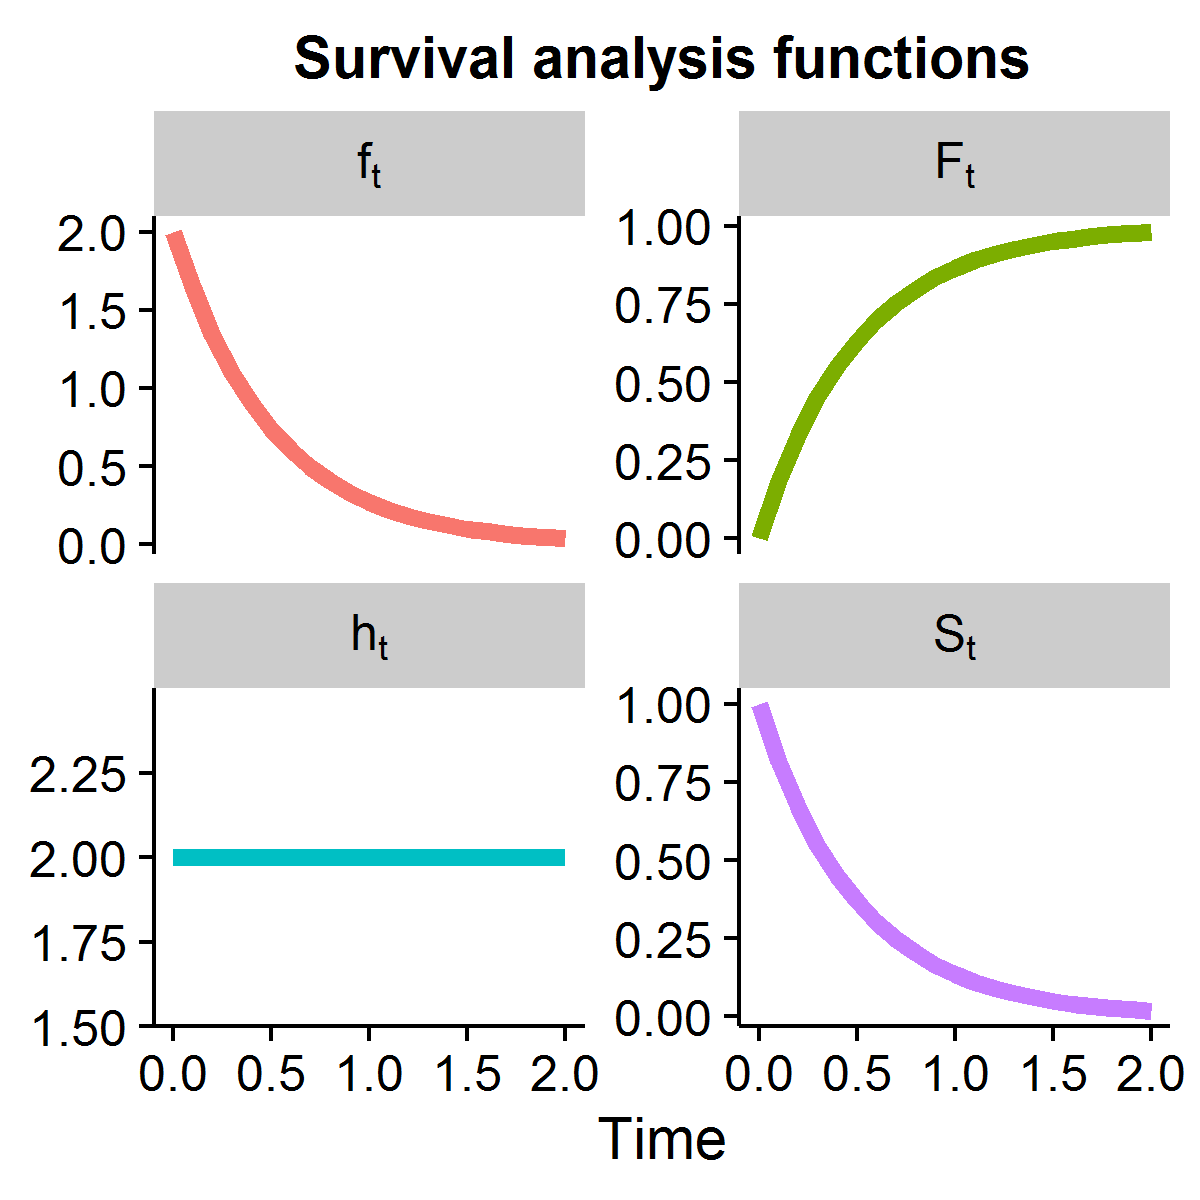
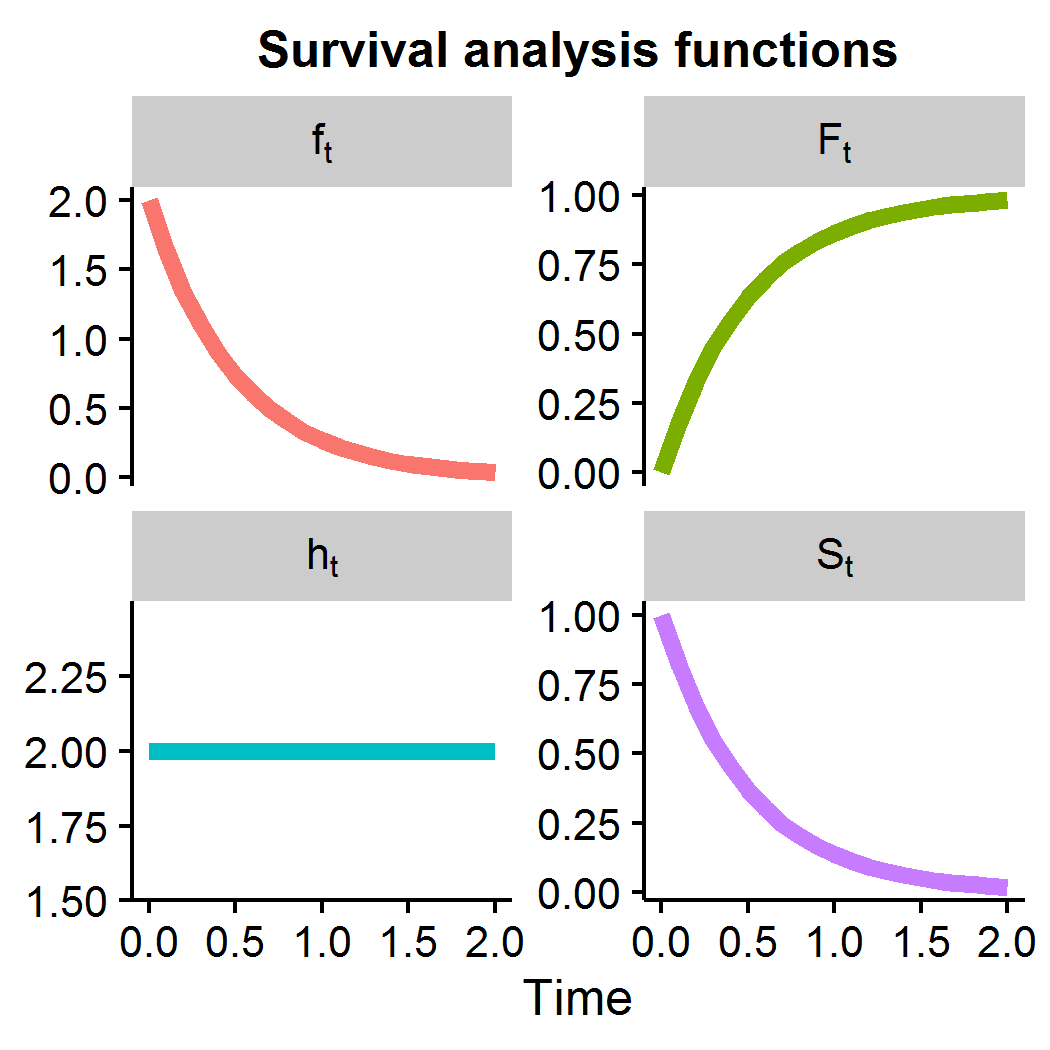
add new content

diff --git a/_rmd/2017-01-12-survival.html b/_rmd/2017-01-12-survival.html
@@ -120,13 +120,13 @@ $(document).ready(function () {
 </div>
 
 
-<p>In clinical settings understanding the dynamics of survival times is important to both medical practitioners as well as patients. In statistics, time-to-event (or duration) analysis models a continuous random variable <span class="math inline">\(T\)</span>, which represents the the length of a state. If the state is being alive, then the time to event is mortality, and we refer to it as <a href="https://en.wikipedia.org/wiki/Survival_analysis">survival anaylsis</a>. If <span class="math inline">\(t\)</span> is a given realization of <span class="math inline">\(T\)</span>, then we are conceptually interested in modelling <span class="math inline">\(P_\theta(T&gt;t\|X)\)</span>, indexed by some parametric distribution <span class="math inline">\(\theta\)</span> and conditional of some baseline covariates <span class="math inline">\(X\)</span>. If a patient has a “state” of some form of cancer, then survival analysis answers the question: what is the probability that life expectancy will exceed <span class="math inline">\(t\)</span> months given your baseline features <span class="math inline">\(X\)</span> (age, gender, genotype, etc) and underlying biological dynamics <span class="math inline">\(\theta\)</span>.<a href="#fn1" class="footnoteRef" id="fnref1"><sup>1</sup></a></p>
+<p>Understanding the dynamics of survival times in clinical settings is important to both medical practitioners and patients. In statistics, time-to-event (or duration) analysis models a continuous random variable <span class="math inline">\(T\)</span>, which represents the the length of a state. If the state is being alive, then the time to event is mortality, and we refer to it as <a href="https://en.wikipedia.org/wiki/Survival_analysis">survival anaylsis</a>. If <span class="math inline">\(t\)</span> is a given realization of <span class="math inline">\(T\)</span>, then we are conceptually interested in modelling <span class="math inline">\(P_\theta(T&gt;t\|X)\)</span>, indexed by some parametric distribution <span class="math inline">\(\theta\)</span> and conditional of some baseline covariates <span class="math inline">\(X\)</span>. If a patient has a “state” of some form of cancer, then survival analysis answers the question: what is the probability that life expectancy will exceed <span class="math inline">\(t\)</span> months given your baseline features <span class="math inline">\(X\)</span> (age, gender, genotype, etc) and underlying biological dynamics <span class="math inline">\(\theta\)</span>[<a href="#fn1" class="footnoteRef" id="fnref1"><sup>1</sup></a>].</p>
 <p>If <span class="math inline">\(T\)</span> is a continuous random variable, then it has a CDF and PDF of course, but in survival analysis we are also interested in two other functions (dropping the subscripts/conditional variables for notational simplicity):</p>
 <ol style="list-style-type: decimal">
 <li><strong>Survivor function</strong>: <span class="math inline">\(S(t)=1-F(t)\)</span>. Probability of being alive at time <span class="math inline">\(t\)</span>.</li>
-<li>*Hazard function**: <span class="math inline">\(h(t)=\frac{f(t)}{S(t)}\)</span>. The rate of change of risk, given you are alive at <span class="math inline">\(t\)</span>.</li>
+<li><strong>Hazard function</strong>: <span class="math inline">\(h(t)=\frac{f(t)}{S(t)}\)</span>. The rate of change of risk, given you are alive at <span class="math inline">\(t\)</span>.</li>
 </ol>
-<p>Visualizing each function in <code>R</code> provides a useful way to understand what each function tells us. Assume that <span class="math inline">\(T~\text{Exp}(\theta)\)</span> distribution.</p>
+<p>Visualizing each function in <code>R</code> provides a useful way to understand what each function tells us. Assume that <span class="math inline">\(T \sim \text{Exp}(\theta)\)</span> distribution.</p>
 <pre class="r"><code># Use theta=2
 F.t &lt;- function(t) { pexp(t,rate=2) }
 f.t &lt;- function(t) { dexp(t,rate=2) }
@@ -138,14 +138,19 @@ dat1 &lt;- data.frame(t=seq(0,2,0.1)) %&gt;%
           gather(dist,val,-t) %&gt;% tbl_df %&gt;% mutate(dist=gsub('t','[t]',dist))
 # Plot
 ggplot(dat1,aes(x=t,y=val,color=dist)) + geom_line(size=2,show.legend=F) +
-  facet_wrap(~dist,scales='free_y',labeller=label_parsed) + theme_cowplot(font_size = 20) +
-  labs(x='Time',y='Value') + ggtitle('Figure 1: Function is Survival Analysis') </code></pre>
[1 lines of base64/hex data omitted]
+  facet_wrap(~dist,scales='free_y',labeller=label_parsed) + theme_cowplot(font_size = 12) +
+  labs(x='Time') + ggtitle('Survival analysis functions') + theme(axis.title.y=element_blank())</code></pre>
[1 lines of base64/hex data omitted]
+<p>We can see that survival function is rapidly approach 0, meaning that the probability of living longer than <span class="math inline">\(t&gt;2\)</span> is virtually zero. However, we also note that the hazard function is flat at <span class="math inline">\(h(t)=2\)</span>. This is note a coincidence, as the exponential function is known to give a constant hazard function, meaning that given you have made it to some point <span class="math inline">\(t_1\)</span> the probablity of mortality in the next moment is going to be the same as someone who made it to <span class="math inline">\(t_2\)</span>, which is another way of saying the exponential distribution is <a href="https://en.wikipedia.org/wiki/Memorylessness">memoryless</a>.</p>
+<p>As a constant hazard rate is a strong modelling assumption, alternative distributions for the duration measure are often used in the literature including the <a href="https://en.wikipedia.org/wiki/Weibull_distribution">Weibull distribution</a> which permits an increasing, descreasing, or constant hazard rate depending on <span class="math inline">\(\alpha\)</span>:</p>
+<p>*<span class="math inline">\(T \sim\)</span> Weibull distribution$ 1. <span class="math inline">\(F(t\|\theta,\alpha)=1-\exp[-(\theta )^\alpha]\)</span> 2. <span class="math inline">\(h(t)=\alpha\theta^\alpha t^{\alpha-1}\)</span></p>
+<p>Let’s see how the Weibull hazard function looks for different parameterizations of <span class="math inline">\(\alpha\)</span> with <span class="math inline">\(\theta=1\)</span>.</p>
[1 lines of base64/hex data omitted]
 <hr />
 <div class="footnotes">
 <hr />
 <ol>
-<li id="fn1"><p>That is, if there were two datasets of survival times, one with breast and pancreatic cancer, respectively, then we would expect that probability of survival would be lower in the latter group, even with the same covariates, simply because pancreatic cancer is known to be a more aggressive cancer.<a href="#fnref1">↩</a></p></li>
+<li id="fn1"><p>That is, if there were two datasets of survival times, with patient cohorts of breast and pancreatic cancer, respectively, then we would expect that probability of survival would be lower in the latter group, even with the same covariates, simply because pancreatic cancer is known to be a more aggressive cancer.<a href="#fnref1">↩</a></p></li>
 </ol>
 </div>
 

diff --git a/_posts/2017-01-12-survival.md b/_posts/2017-01-12-survival.md
@@ -9,14 +9,14 @@ mathjax: true
  
 
  
-In clinical settings understanding the dynamics of survival times is important to both medical practitioners as well as patients. In statistics, time-to-event (or duration) analysis models a continuous random variable $T$, which represents the the length of a state. If the state is being alive, then the time to event is mortality, and we refer to it as [survival anaylsis](https://en.wikipedia.org/wiki/Survival_analysis). If $t$ is a given realization of $T$, then we are conceptually interested in modelling $P_\theta(T>t\|X)$, indexed by some parametric distribution $\theta$ and conditional of some baseline covariates $X$. If a patient has a "state" of some form of cancer, then survival analysis answers the question: what is the probability that life expectancy will exceed $t$ months given your baseline features $X$ (age, gender, genotype, etc) and underlying biological dynamics $\theta$.[^1]
+Understanding the dynamics of survival times in clinical settings is important to both medical practitioners and patients. In statistics, time-to-event (or duration) analysis models a continuous random variable $T$, which represents the the length of a state. If the state is being alive, then the time to event is mortality, and we refer to it as [survival anaylsis](https://en.wikipedia.org/wiki/Survival_analysis). If $t$ is a given realization of $T$, then we are conceptually interested in modelling $P_\theta(T>t\|X)$, indexed by some parametric distribution $\theta$ and conditional of some baseline covariates $X$. If a patient has a "state" of some form of cancer, then survival analysis answers the question: what is the probability that life expectancy will exceed $t$ months given your baseline features $X$ (age, gender, genotype, etc) and underlying biological dynamics $\theta$[[^1]].
  
 If $T$ is a continuous random variable, then it has a CDF and PDF of course, but in survival analysis we are also interested in two other functions (dropping the subscripts/conditional variables for notational simplicity):
  
 1. **Survivor function**: $S(t)=1-F(t)$. Probability of being alive at time $t$. 
-2. *Hazard function**: $h(t)=\frac{f(t)}{S(t)}$. The rate of change of risk, given you are alive at $t$.
+2. **Hazard function**: $h(t)=\frac{f(t)}{S(t)}$. The rate of change of risk, given you are alive at $t$.
  
-Visualizing each function in `R` provides a useful way to understand what each function tells us. Assume that $T~\text{Exp}(\theta)$ distribution.
+Visualizing each function in `R` provides a useful way to understand what each function tells us. Assume that $T \sim \text{Exp}(\theta)$ distribution.
  
 
 {% highlight r %}
@@ -31,16 +31,26 @@ dat1 <- data.frame(t=seq(0,2,0.1)) %>%
           gather(dist,val,-t) %>% tbl_df %>% mutate(dist=gsub('t','[t]',dist))
 # Plot
 ggplot(dat1,aes(x=t,y=val,color=dist)) + geom_line(size=2,show.legend=F) +
-  facet_wrap(~dist,scales='free_y',labeller=label_parsed) + theme_cowplot(font_size = 14) +
+  facet_wrap(~dist,scales='free_y',labeller=label_parsed) + theme_cowplot(font_size = 12) +
   labs(x='Time') + ggtitle('Survival analysis functions') + theme(axis.title.y=element_blank())
 {% endhighlight %}
 
 ![plot of chunk surv1](/figures/surv1-1.png)
  
+We can see that survival function is rapidly approach 0, meaning that the probability of living longer than $t>2$ is virtually zero. However, we also note that the hazard function is flat at $h(t)=2$. This is note a coincidence, as the exponential function is known to give a constant hazard function, meaning that given you have made it to some point $t_1$ the probablity of mortality in the next moment is going to be the same as someone who made it to $t_2$, which is another way of saying the exponential distribution is [memoryless](https://en.wikipedia.org/wiki/Memorylessness).
  
+As a constant hazard rate is a strong modelling assumption, alternative distributions for the duration measure are often used in the literature including the [Weibull distribution](https://en.wikipedia.org/wiki/Weibull_distribution) which permits an increasing, descreasing, or constant hazard rate depending on $\alpha$:
+ 
+*$T \sim$ Weibull distribution$
+1. $F(t\|\theta,\alpha)=1-\exp[-(\theta )^\alpha]$
+2. $h(t)=\alpha\theta^\alpha t^{\alpha-1}$
+ 
+Let's see how the Weibull hazard function looks for different parameterizations of $\alpha$ with $\theta=1$.
+ 
+![plot of chunk weibull_param](/figures/weibull_param-1.png)
  
  
 * * *
  
-[^1]: That is, if there were two datasets of survival times, one with breast and pancreatic cancer, respectively, then we would expect that probability of survival would be lower in the latter group, even with the same covariates, simply because pancreatic cancer is known to be a more aggressive cancer.
+[^1]: That is, if there were two datasets of survival times, with patient cohorts of breast and pancreatic cancer, respectively, then we would expect that probability of survival would be lower in the latter group, even with the same covariates, simply because pancreatic cancer is known to be a more aggressive cancer.
  
